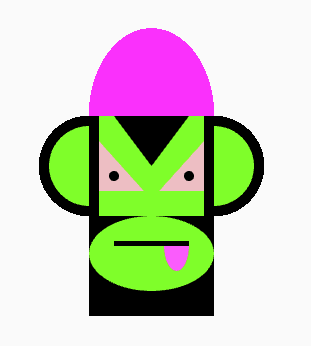
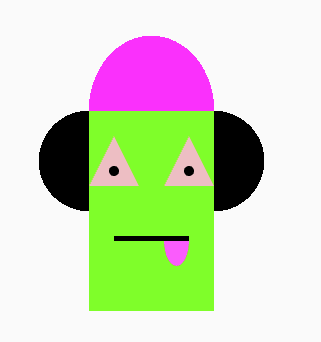
added another image that came before final form mojo jojo

Changed region(s): [[0.1158, 0.0585, 0.8682, 0.9357], [0.2894, 0.1462, 0.3473, 0.2632]]

diff --git a/midterm/README.md b/midterm/README.md
@@ -7,7 +7,7 @@
 OK SO FIRST I DRAW (INSERT SKETCH HERE)
 I used a graph paper on my iPad and drew the image of a monkey-looking thing. my weird monkey.
 
-![alt text]()
+![alt text](https://github.com/dannycastroaudio/itp/blob/main/midterm/Phase1.1.jpg)
 
 THEN I TRY TO MAKE MONKEY ON CONSOLE. 
 
@@ -47,11 +47,19 @@ function draw() //gonna draw monkey
   arc (82, 102, 10, 25, 0, PI);
 }
 ````
+this is how my test sketch turns out:
+
+![alt text](https://github.com/dannycastroaudio/itp/blob/main/midterm/Phase2.1.png)
 
 ---
 ### Phase 1.2
 
-At this point I had read all of the instructions, so I made sure to adjust my sketch to be scalable to a 400x400 canvas, and actually follow set x and y coordinates. Basically a 16x16 where each unit = 25 units if scaled.  I thought that was the easiest way.
+At this point I had read all of the instructions, so I made sure to adjust my sketch to be scalable to a 400x400 canvas, and actually follow set x and y coordinates. Basically a 16x16 where each unit = 25 units if scaled. I thought that was the easiest way.
+
+You can see how much sense it makes now. Adjusting dimensions/making changes will be generally easier cause now I follow precise numbers.
+
+![alt text](https://github.com/dannycastroaudio/itp/blob/main/midterm/Phase2.2.png)
+
 
 ---
 ### Phase 2.2
@@ -88,8 +96,13 @@ function draw() //gonna draw monkey
   arc (187.5, 255, 25, 50, 0, PI); //tongue
 }
 ````
+here was the result! It doesnt look like much has changed, but I disagree. This P5 drawing sits a lot better.
 
-the code above is accurate ion scale to my sketch, where each grid block = 25 units, and the entire canvas is 400 units total. I mapped out all the points on graph paper.
+![alt text](https://github.com/dannycastroaudio/itp/blob/main/midterm/Phase2.2.png)
+
+the code above is accurate in scale to my sketch, where each grid block = 25 units, and the entire canvas is 400 units total. I mapped out all the points on graph paper.
+
+![alt text]()
 
 ---
 ### Phase 2.3
